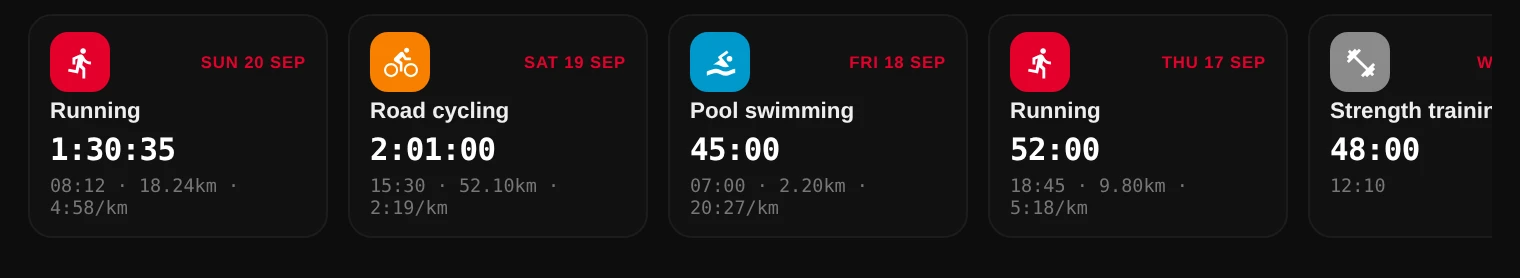
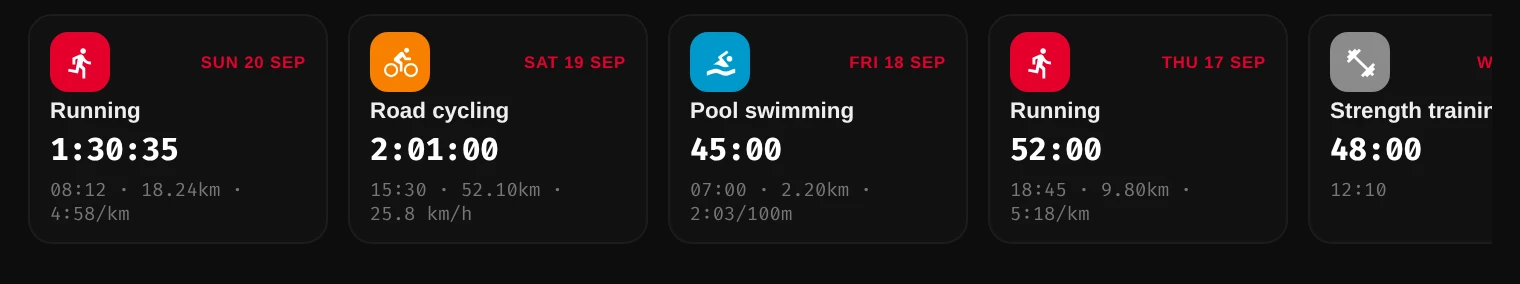
fix(ui): show sport-appropriate pace or speed in sessions view (#84)
Pace per km was shown for every sport (e.g. 20:27/km for a swim). Use
min/km on foot, min/100m for swimming, and km/h for everything else;
sessions without a category keep min/km. Also fixes the rounding that
could render 4:60 instead of 5:00.

diff --git a/internal/mcp/ui/sessions.html b/internal/mcp/ui/sessions.html
@@ -160,11 +160,22 @@ function fmtDist(m) {
 function fmtDistFlat(m) {
   const d = fmtDist(m); return typeof d === "string" ? d : d.n + d.u;
 }
-function fmtPace(dist, secs) {
+function fmtPace(dist, secs, per = 1000) {
   if (!dist || !secs || dist < 100) return null;
-  const secPer = (Number(secs) / Number(dist)) * 1000;
-  const m = Math.floor(secPer/60), s = Math.round(secPer%60);
+  const secPer = Math.round((Number(secs) / Number(dist)) * per);
+  const m = Math.floor(secPer/60), s = secPer%60;
   return `${m}:${String(s).padStart(2,"0")}`;
+}
+// Sport-appropriate speed metric: pace per km on foot, pace per 100 m in the
+// water, km/h for everything else. An unknown category (the details payload
+// carries none) keeps the per-km pace.
+const PACE_KM_CATS = new Set(["run", "walk", "hike"]);
+function speedStat(dist, secs, cat) {
+  if (!dist || !secs || dist < 100) return null;
+  if (cat === "swim") { const v = fmtPace(dist, secs, 100); return { v, unit: "min/100m", short: `${v}/100m`, label: "Pace" }; }
+  if (!cat || PACE_KM_CATS.has(cat)) { const v = fmtPace(dist, secs); return { v, unit: "min/km", short: `${v}/km`, label: "Pace" }; }
+  const v = (Number(dist) / Number(secs) * 3.6).toFixed(1);
+  return { v, unit: "km/h", short: `${v}\u00a0km/h`, label: "Speed" };
 }
 function fmtDateLong(iso) {
   if (!iso) return "";
@@ -276,12 +287,12 @@ function renderDayList(sc) {
     const name = s.sport_name ?? s.sportName ?? sportInfo(s).label;
     const dur = s.session_duration_s ?? durToSecs(s.duration);
     const dist = s.distance_m ?? s.distance ?? 0;
-    const pace = fmtPace(dist, dur);
+    const spd = speedStat(dist, dur, s.sport_category);
     return `<div class="sess-card" onclick="openSession('${esc(id)}')">
       <div class="sc-top">${sportTile(s, true)}<span class="sc-date">${esc(fmtDayShort(sessionDate(s)))}</span></div>
       <div class="sc-name">${esc(name)}</div>
       <div class="sc-dur">${esc(fmtDur(dur))}</div>
-      <div class="sc-stats">${esc(fmtTime(s.start_time))}${dist ? ` · ${esc(fmtDistFlat(dist))}` : ""}${pace ? ` · ${esc(pace)}/km` : ""}</div>
+      <div class="sc-stats">${esc(fmtTime(s.start_time))}${dist ? ` · ${esc(fmtDistFlat(dist))}` : ""}${spd ? ` · ${esc(spd.short)}` : ""}</div>
     </div>`;
   }).join("")}</div>`;
 }
@@ -320,13 +331,13 @@ function summaryHTML(s, fallback, withHeader, withBack) {
   const hrMax = s.hr_max ?? s.hrMax ?? hr.max;
   const kcal = s.calories ?? s.kiloCalories ?? ex?.calories ?? fallback?.calories;
   const load = s.training_load ?? s.trainingLoad;
-  const pace = fmtPace(dist, dur);
+  const spd = speedStat(dist, dur, s.sport_category ?? fallback?.sport_category);
   const distF = dist ? fmtDist(dist) : null;
 
   const cells = [];
   cells.push(heroCell("duration", fmtDur(dur), "", "Duration", null));
   if (distF) cells.push(heroCell("distance", distF.n, distF.u, "Distance", null));
-  if (pace)  cells.push(heroCell("gauge", pace, "min/km", "Pace", "Avg"));
+  if (spd)   cells.push(heroCell("gauge", spd.v, spd.unit, spd.label, "Avg"));
   if (hrAvg) cells.push(heroCell("heart", hrAvg, "bpm", "Heart Rate", "Avg"));
   if (hrMax) cells.push(heroCell("heart", hrMax, "bpm", "Heart Rate", "Max"));
   if (kcal)  cells.push(heroCell("flame", Math.round(kcal), "kcal", "Calories", null));
@@ -374,12 +385,12 @@ function renderDirectDetails(sc) {
   const hrStat = ex?.trainingStatistic?.HEART_RATE ?? {};
   const dur = durToSecs(ex?.duration);
   const dist = ex?.distance ?? 0;
-  const pace = fmtPace(dist, dur);
+  const spd = speedStat(dist, dur, ex?.sport_category);
   const distF = dist ? fmtDist(dist) : null;
   const cells = [];
   if (dur) cells.push(heroCell("duration", fmtDur(dur), "", "Duration", null));
   if (distF) cells.push(heroCell("distance", distF.n, distF.u, "Distance", null));
-  if (pace) cells.push(heroCell("gauge", pace, "min/km", "Pace", "Avg"));
+  if (spd) cells.push(heroCell("gauge", spd.v, spd.unit, spd.label, "Avg"));
   if (hrStat.avg) cells.push(heroCell("heart", hrStat.avg, "bpm", "Heart Rate", "Avg"));
   if (hrStat.max) cells.push(heroCell("heart", hrStat.max, "bpm", "Heart Rate", "Max"));
   if (ex?.calories) cells.push(heroCell("flame", Math.round(ex.calories), "kcal", "Calories", null));

diff --git a/docs/src/content/docs/reference/mcp-apps.md b/docs/src/content/docs/reference/mcp-apps.md
@@ -23,7 +23,7 @@ The list renders one card per session, newest first:
 ![Training sessions rendered as cards](../../../assets/mcp-apps/sessions.webp)
 
 Clicking a card calls `get_training_session_summary` from inside the widget
-and drills into the summary — duration, distance, pace, heart rate, calories,
+and drills into the summary — duration, distance, pace or speed (per sport), heart rate, calories,
 training load and time in each heart-rate zone:
 
 ![One session's summary with its heart-rate zone bar](../../../assets/mcp-apps/session-summary.webp)
